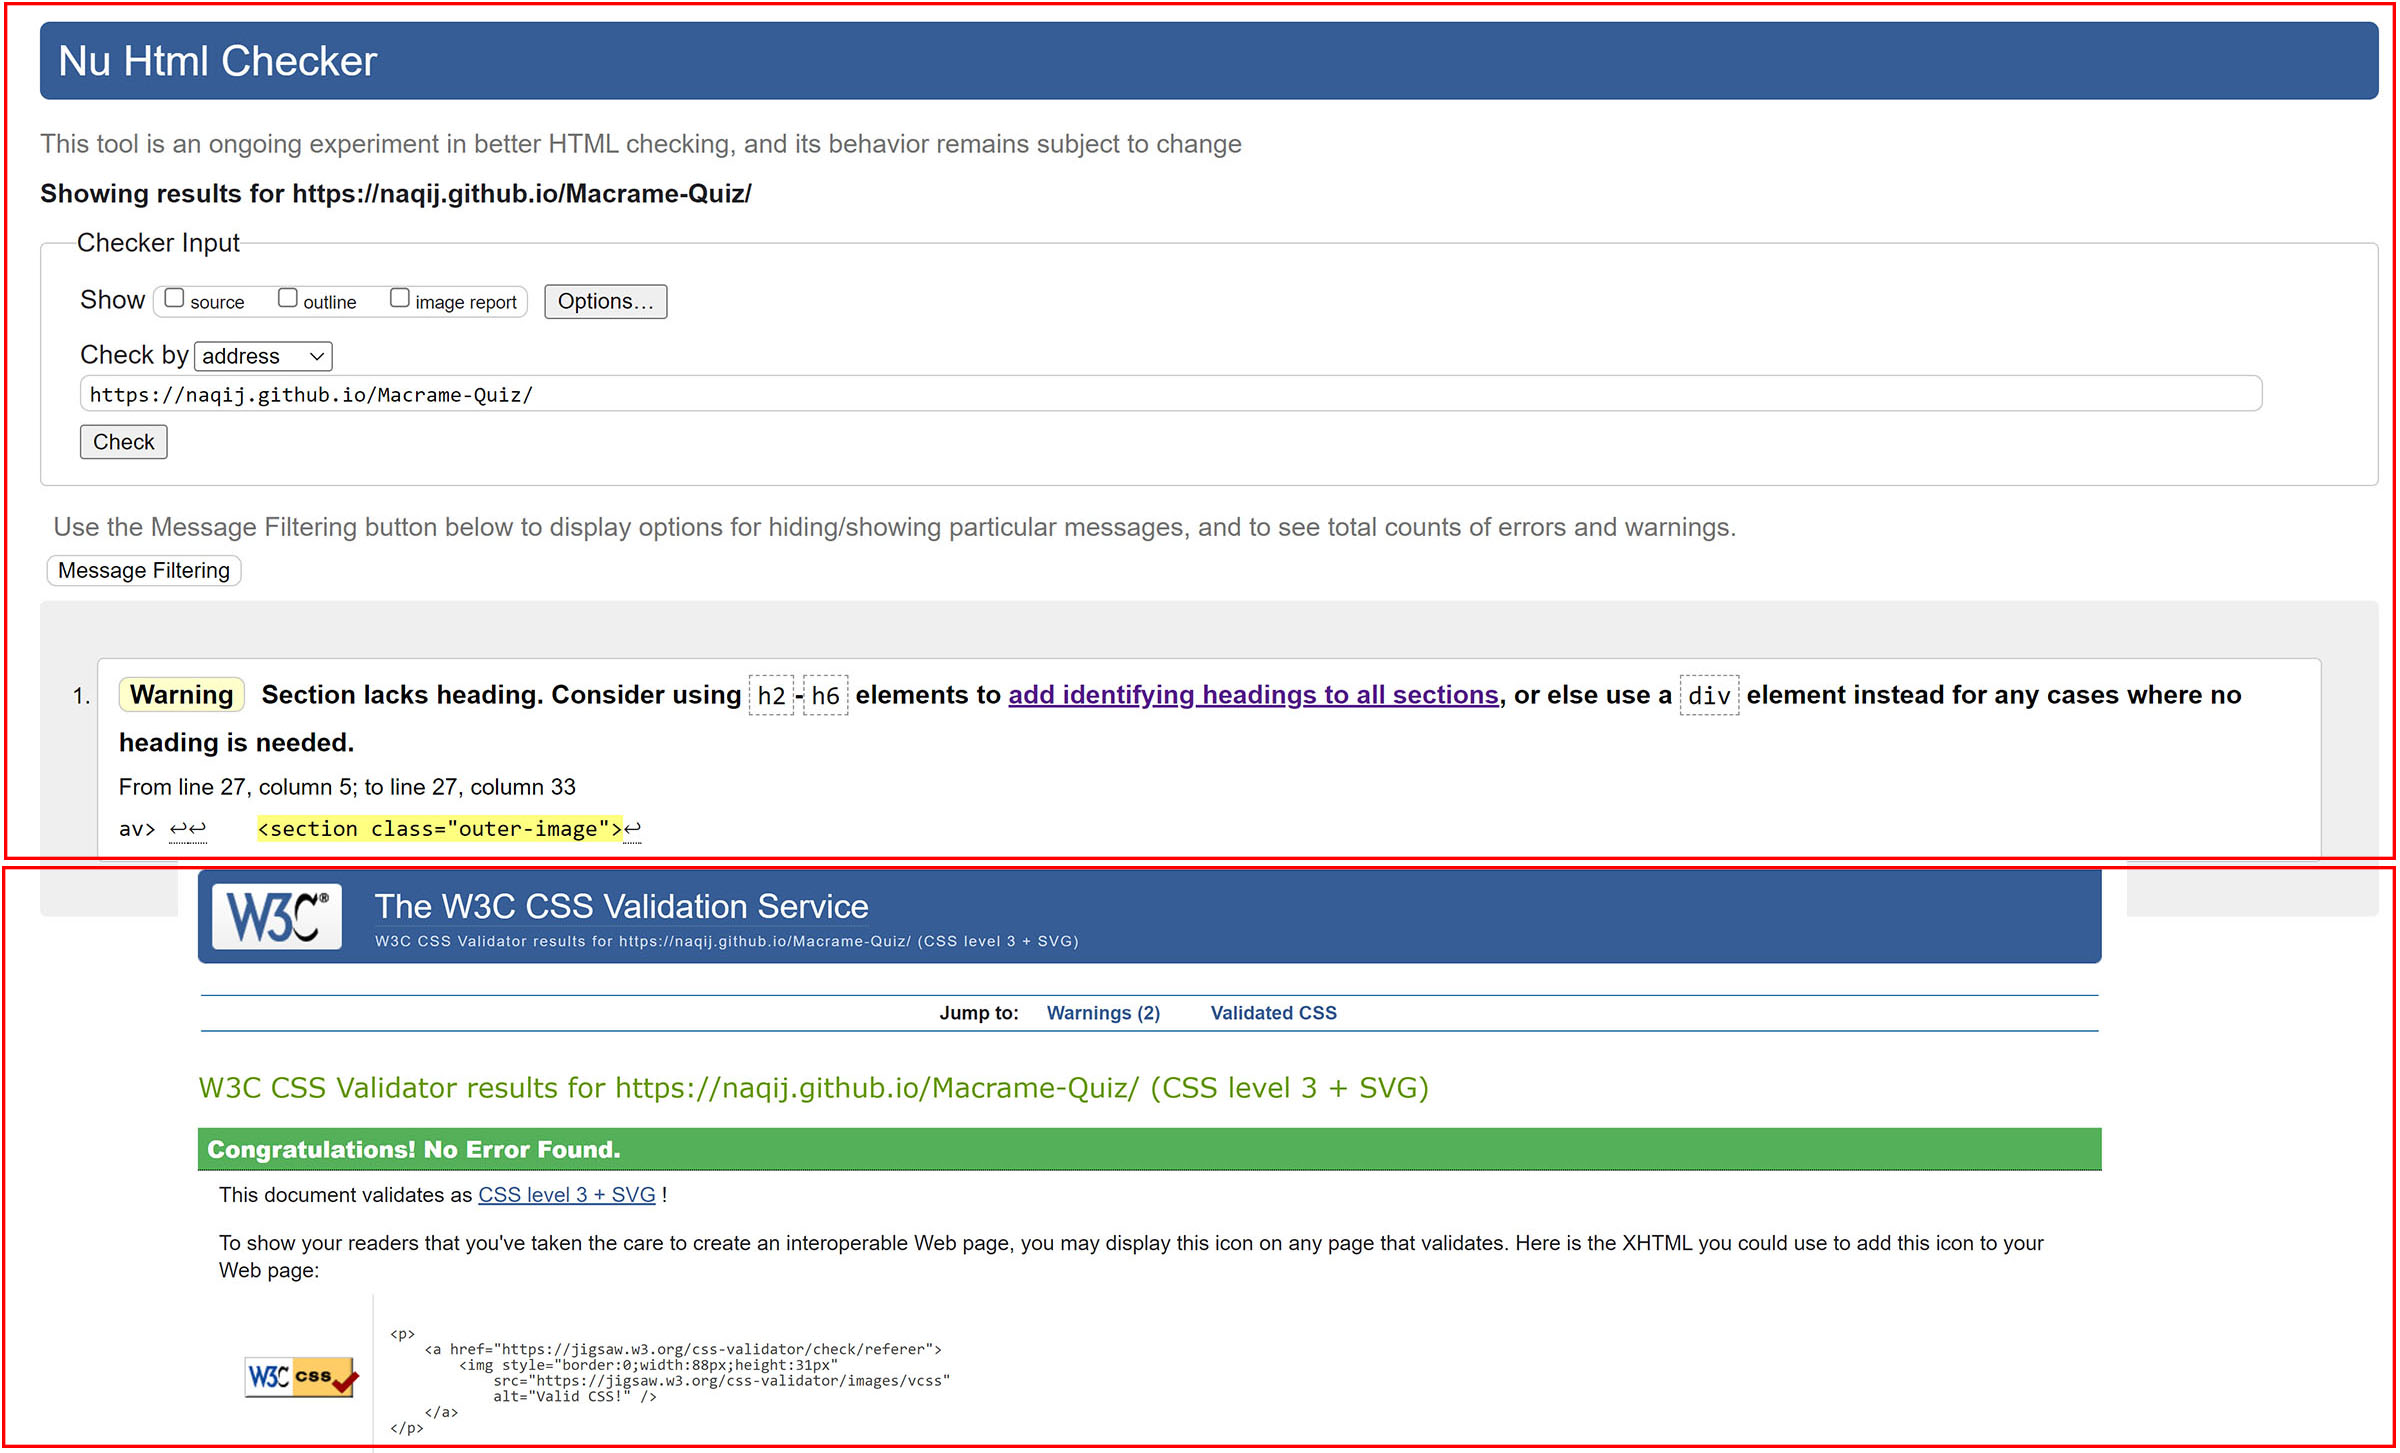
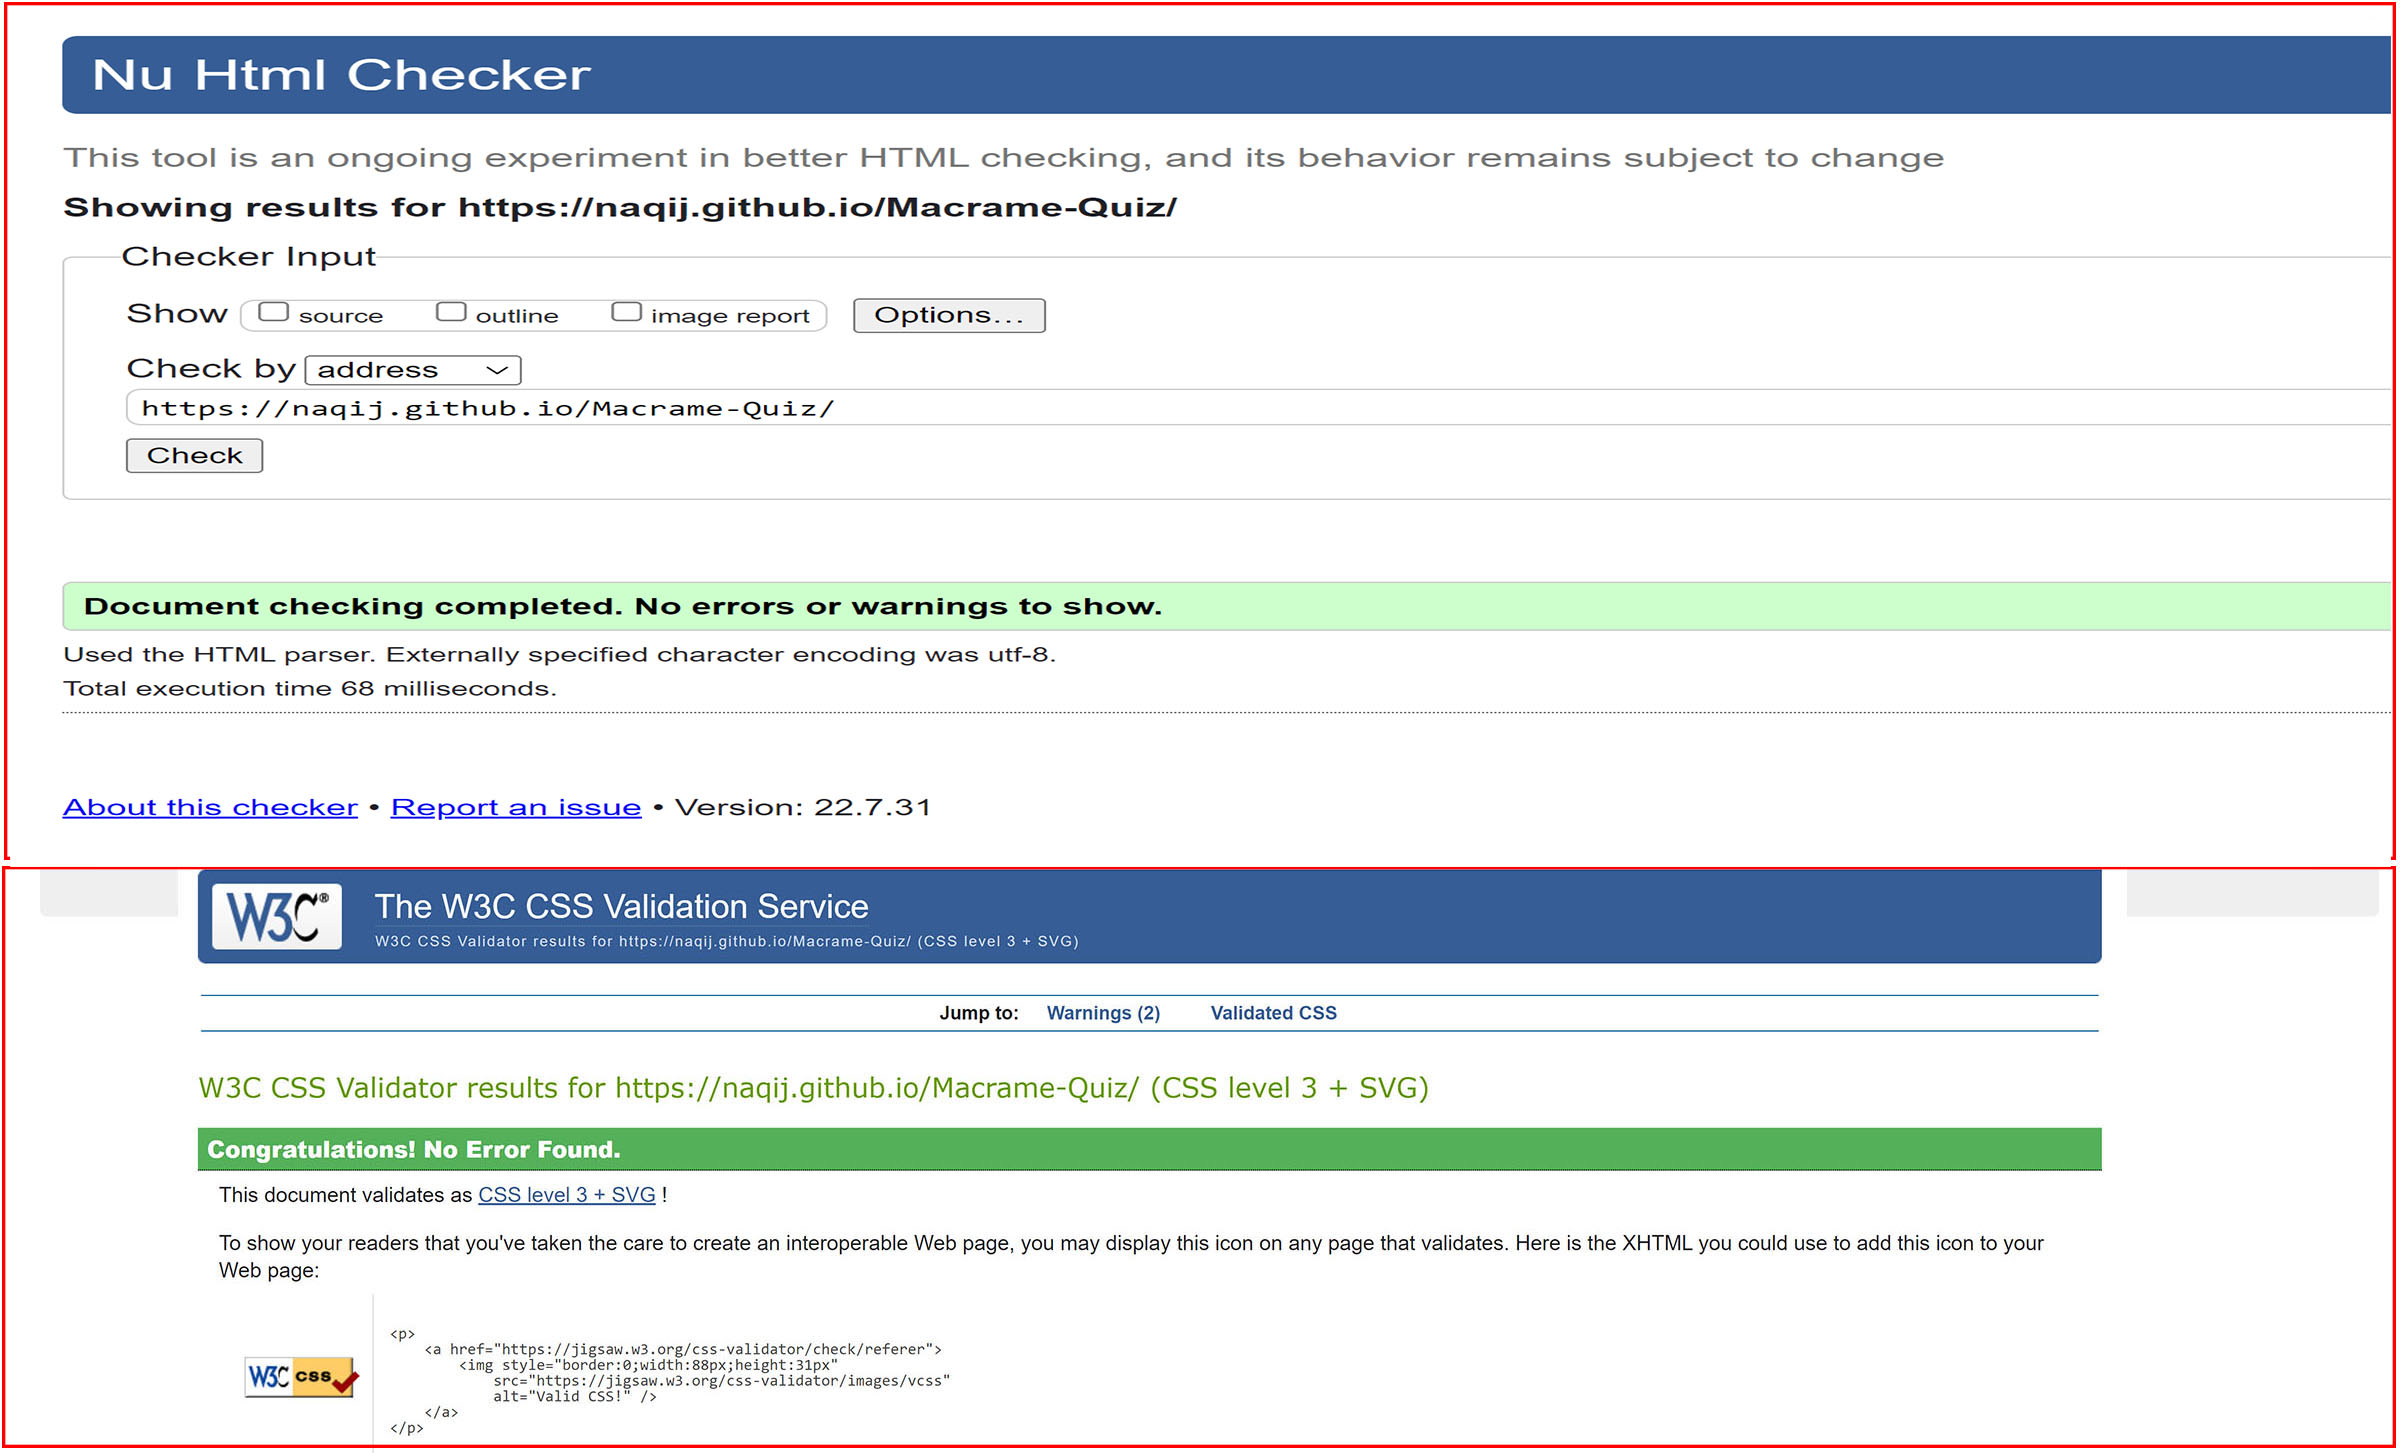
updated validation area for Readme file

Changed region(s): [[0.0, 0.0, 1.0, 0.6194], [0.375, 0.1858, 0.4375, 0.2478], [0.2812, 0.5265, 0.3125, 0.5575]]

diff --git a/README.md b/README.md
@@ -179,9 +179,7 @@ I feel that the site has hit the goals are required by everyone. The site respon
 
 I have validated my project with the [W3C Validator](https://www.w3.org/ "HTML and CSS") and I used JShind [JShind](https://jshint.com/ "HTML and CSS") to validate my Javascript codes.
 
-I got few warnings for HTML but I think it works for me better this way so I left them the way they are, there were no errors.
-
-I've also got few warnings for my JavaScript files but most of them were for "Missing semicolon" so I also left them the way they were.
+I've got few warnings for my JavaScript files but most of them were for "Missing semicolon" so I left them the way they were.
 
 Below are the validation images.
 
